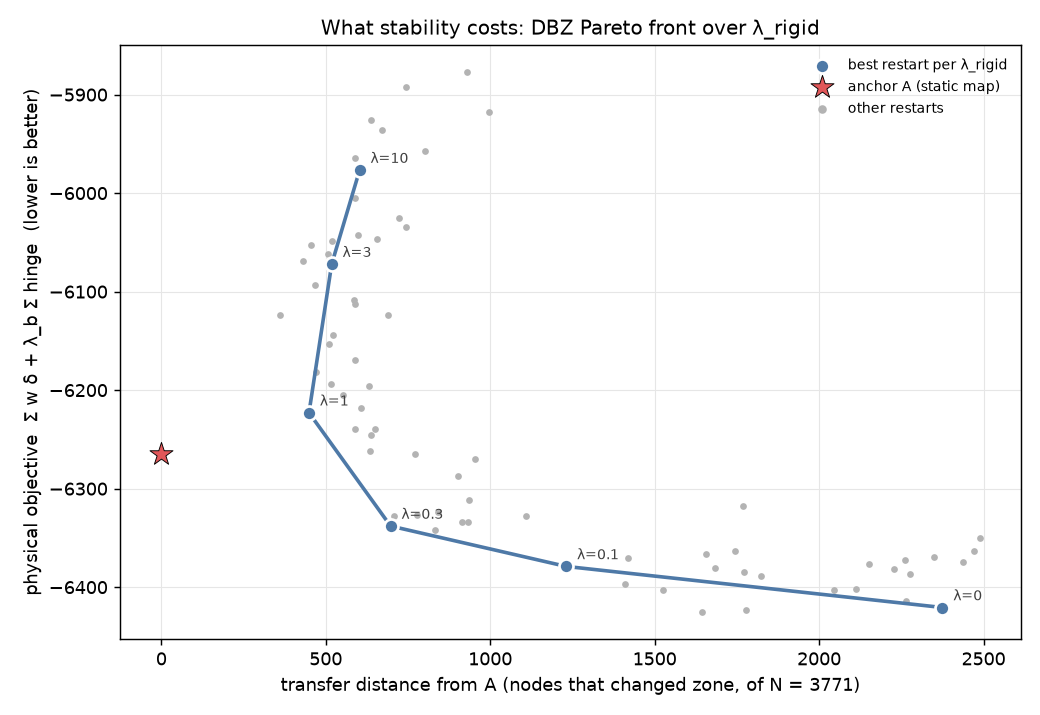
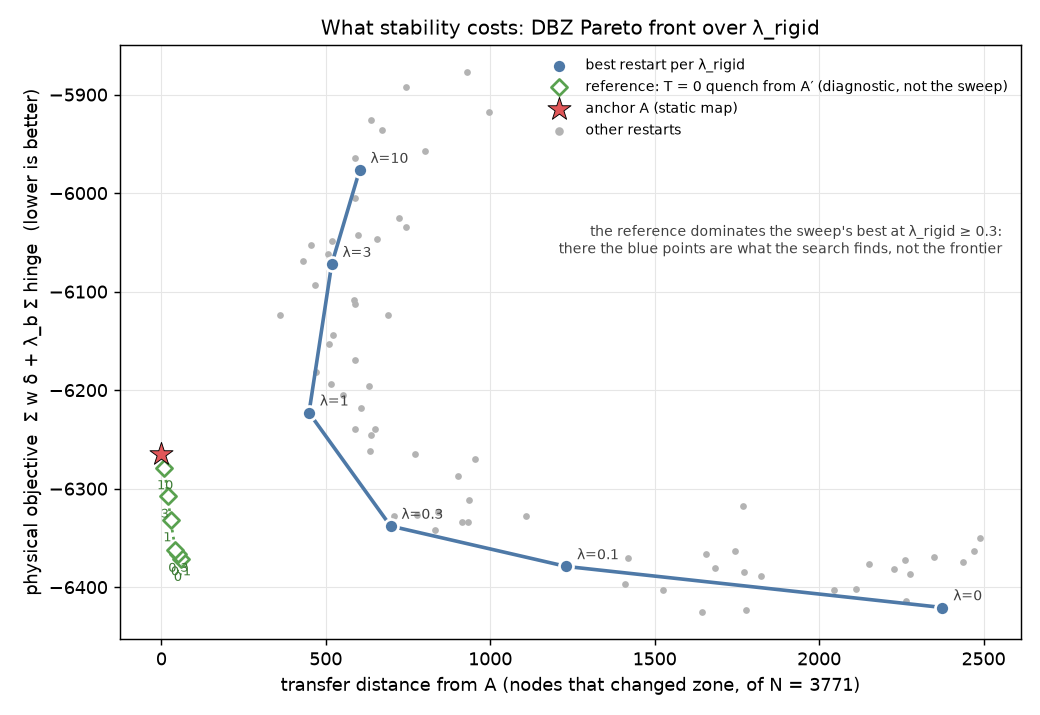
DBZ results: A' reference series on the Pareto plot, regenerated report
The T = 0 quench from A' dominates the sweep's best restart at lambda_rigid >=
0.3 (better physical objective and smaller transfer distance), so the
high-lambda end of the front is what the search finds, not the frontier.

Claude-Session: https://claude.ai/code/session_01R66yNyEwu9TU9tmaXyXg5J

Changed region(s): [[0.5231, 0.0615, 0.9846, 0.1846], [0.5231, 0.3077, 0.9538, 0.3692], [0.1538, 0.6462, 0.1846, 0.8]]

diff --git a/bidding_zones/bzgen/dbz/plots.py b/bidding_zones/bzgen/dbz/plots.py
@@ -269,6 +269,19 @@ def pareto(df: pd.DataFrame, restarts: dict, anchor_phys: float, N: int, fig_dir
     for _, r in df.iterrows():
         ax.annotate(f"λ={r.lambda_rigid:g}", (r.transfer_distance, r.physical),
                     xytext=(6, 4), textcoords="offset points", fontsize=8, color="0.25")
+    if "ref_physical" in df:
+        ax.plot(df.ref_transfer, df.ref_physical, ":", color="#59a14f", lw=1.5, zorder=2)
+        ax.scatter(df.ref_transfer, df.ref_physical, marker="D", s=40, facecolors="white",
+                   edgecolors="#59a14f", linewidths=1.5, zorder=3,
+                   label="reference: T = 0 quench from A′ (diagnostic, not the sweep)")
+        for _, r in df.iterrows():
+            ax.annotate(f"{r.lambda_rigid:g}", (r.ref_transfer, r.ref_physical), xytext=(-4, -12),
+                        textcoords="offset points", fontsize=7, color="#3b7a33")
+        if df.ref_dominates_best.any():
+            ax.text(0.98, 0.70, "the reference dominates the sweep's best at λ_rigid ≥ "
+                    f"{df[df.ref_dominates_best].lambda_rigid.min():g}:\nthere the blue points "
+                    "are what the search finds, not the frontier",
+                    transform=ax.transAxes, ha="right", va="top", fontsize=8, color="0.25")
     ax.scatter([0], [anchor_phys], marker="*", s=180, color="#e15759", zorder=4,
                edgecolors="k", linewidths=0.5, label="anchor A (static map)")
     ax.scatter([], [], s=14, color="0.7", label="other restarts")
